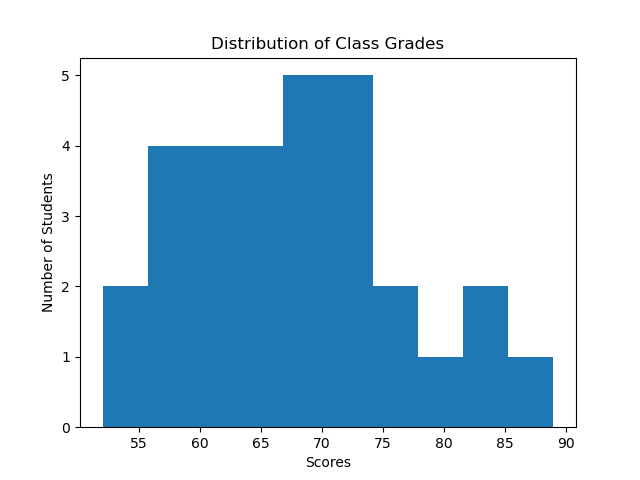
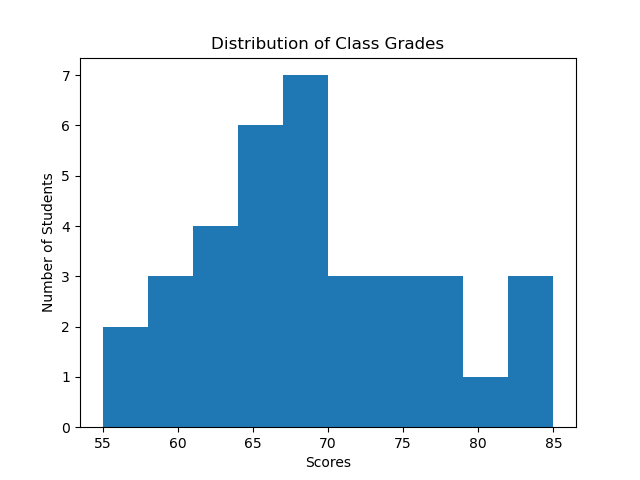
zscore post additions

diff --git a/Z_Score_Post.html b/Z_Score_Post.html
@@ -78,9 +78,21 @@
 								</p>
 								
 								<h2>Full Example with Questions</h2>
-								<p>Assume we had a class of 30 students who received the following grade scores: [68,76,84,61,71,73,73,63,61,60,89,58,52,66,75,65,67,72,68,57,74,78,55,58,64,59,67,84,66,68].</p>
+								<p>Assume we had a class of 35 students who received the following grade scores: [84, 73, 70, 55, 67, 67, 69, 64, 69, 66, 59, 77, 77, 83, 70, 66, 65, 57, 77, 61, 60, 68, 81, 71, 61, 64, 75, 68, 63, 68, 75, 85, 60, 64, 63].</p>
 								<div class="image main"><img src="images/classhist.png" alt="" /></div>				
-								<p>We can ask what is the probability (the decimal form) or percentile score (percent form) of raw values below, above, or between values.</p>
+								<p>We can ask what is the probability (the decimal form) of raw values below, above, or between values. We can also ask what the percentile score is for a value.
+								The example questions we are going to ask include the following:
+								(1) What is the probability of a score being below 60?
+								(2) What is the probability of a score being above 80?
+								(3) What is the probability having a score between 70 and 85?
+								It also important to note an assumption: Since we have >30 instances and we consider this class as the complete population, we approximate the normal distribution and use the z-score and z-table.
+								</p>
+								<h3>Preparation work</h3>
+								<p>We need to calculate some values: (1) the mean, (2) the standard deviation.</p>
+								<h3>What is the probability of a score being below 60?</h3>
+								<p>1) We need to find the area from the left tail all the way to the score with 70.</p>
+								<h3>What is the probability of a score being above 80?</h3>
+								<h3>What is the probability having a score between 70 and 85?</h3>
 								
 								<h2>How to use Z-score for outlier detection?</h2>
 								<p></p>
